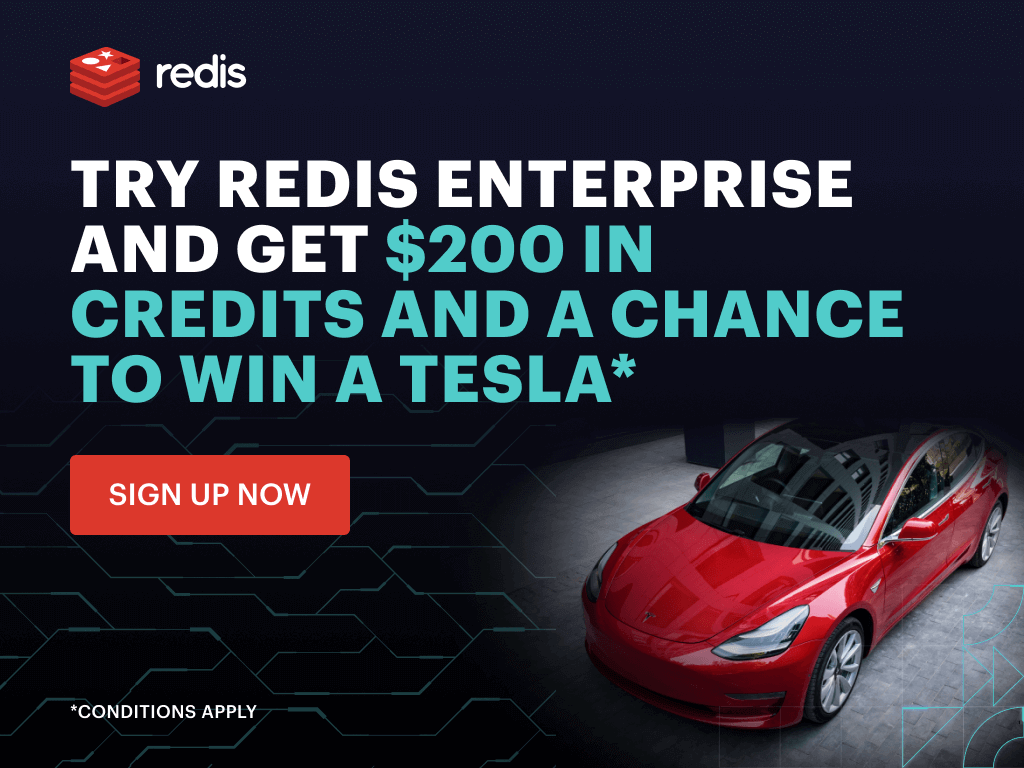
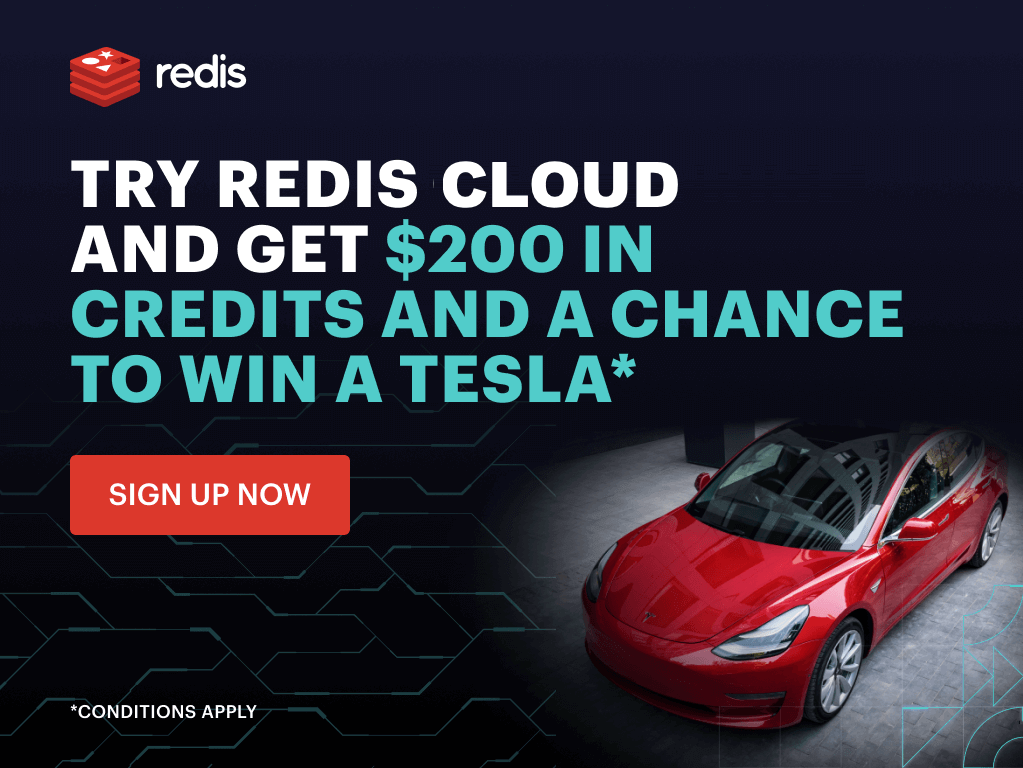
docs(README): update Redis title

diff --git a/README.md b/README.md
@@ -55,7 +55,7 @@ Upstash is a Serverless Database with Redis/REST API and durable storage. It is 
 
 <br clear="both"/>
 
-### Redis: From the creators of Redis
+### Redis Cloud: From the creators of Redis
 
 <a href="https://redis.info/ioredis-tryfree"><img align="right" width="320" src="resources/redis-tryfree.png" alt="redis-tryfree"></a>
 
